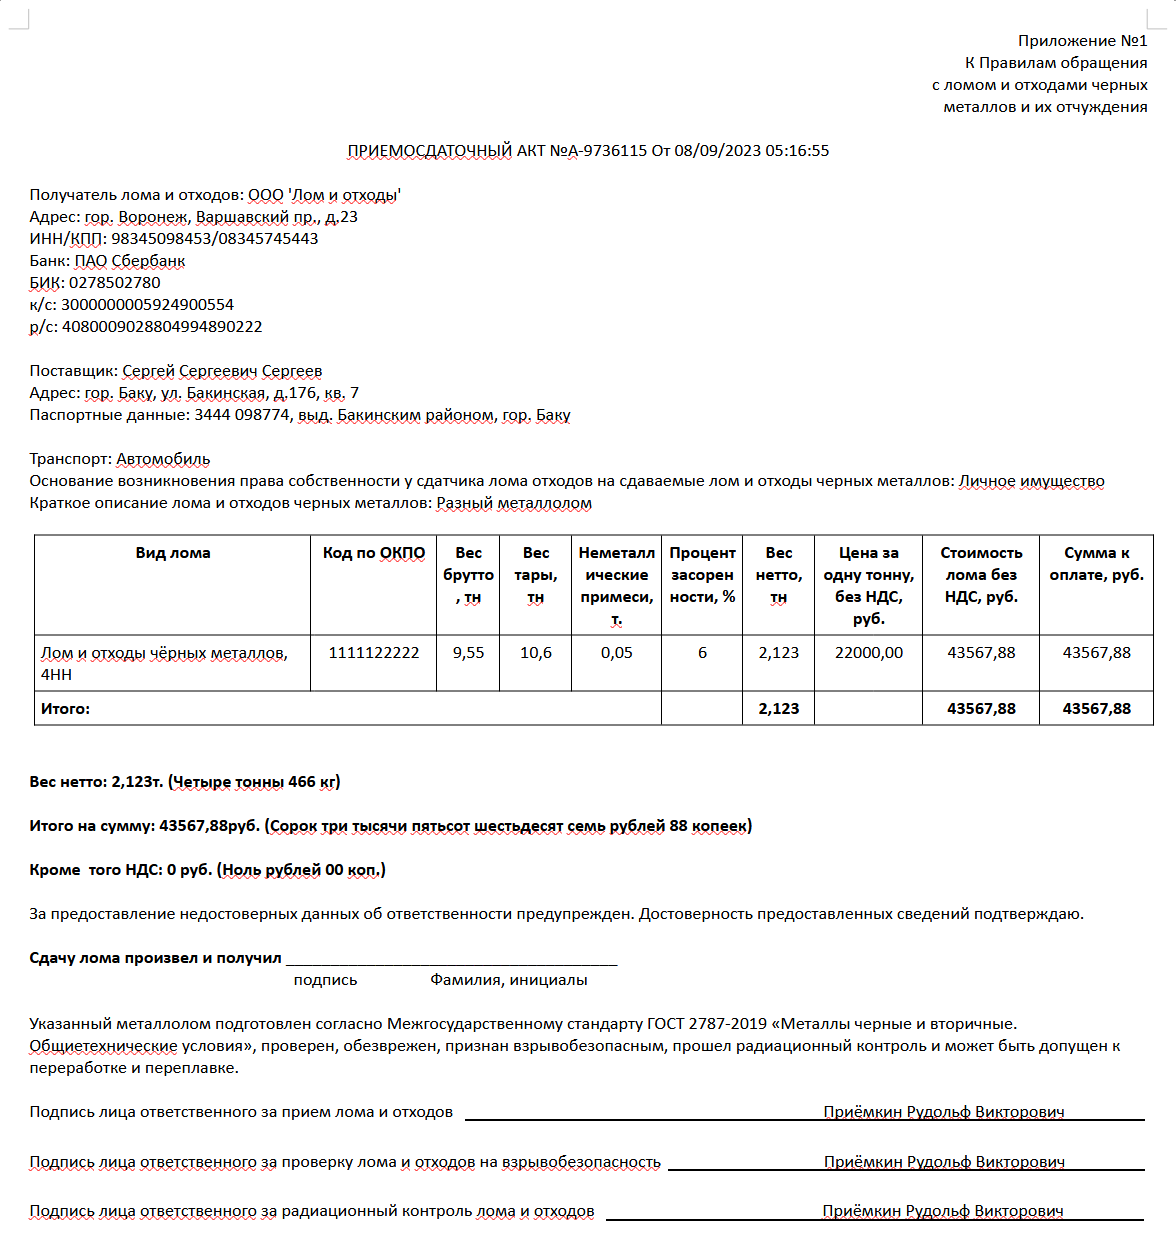
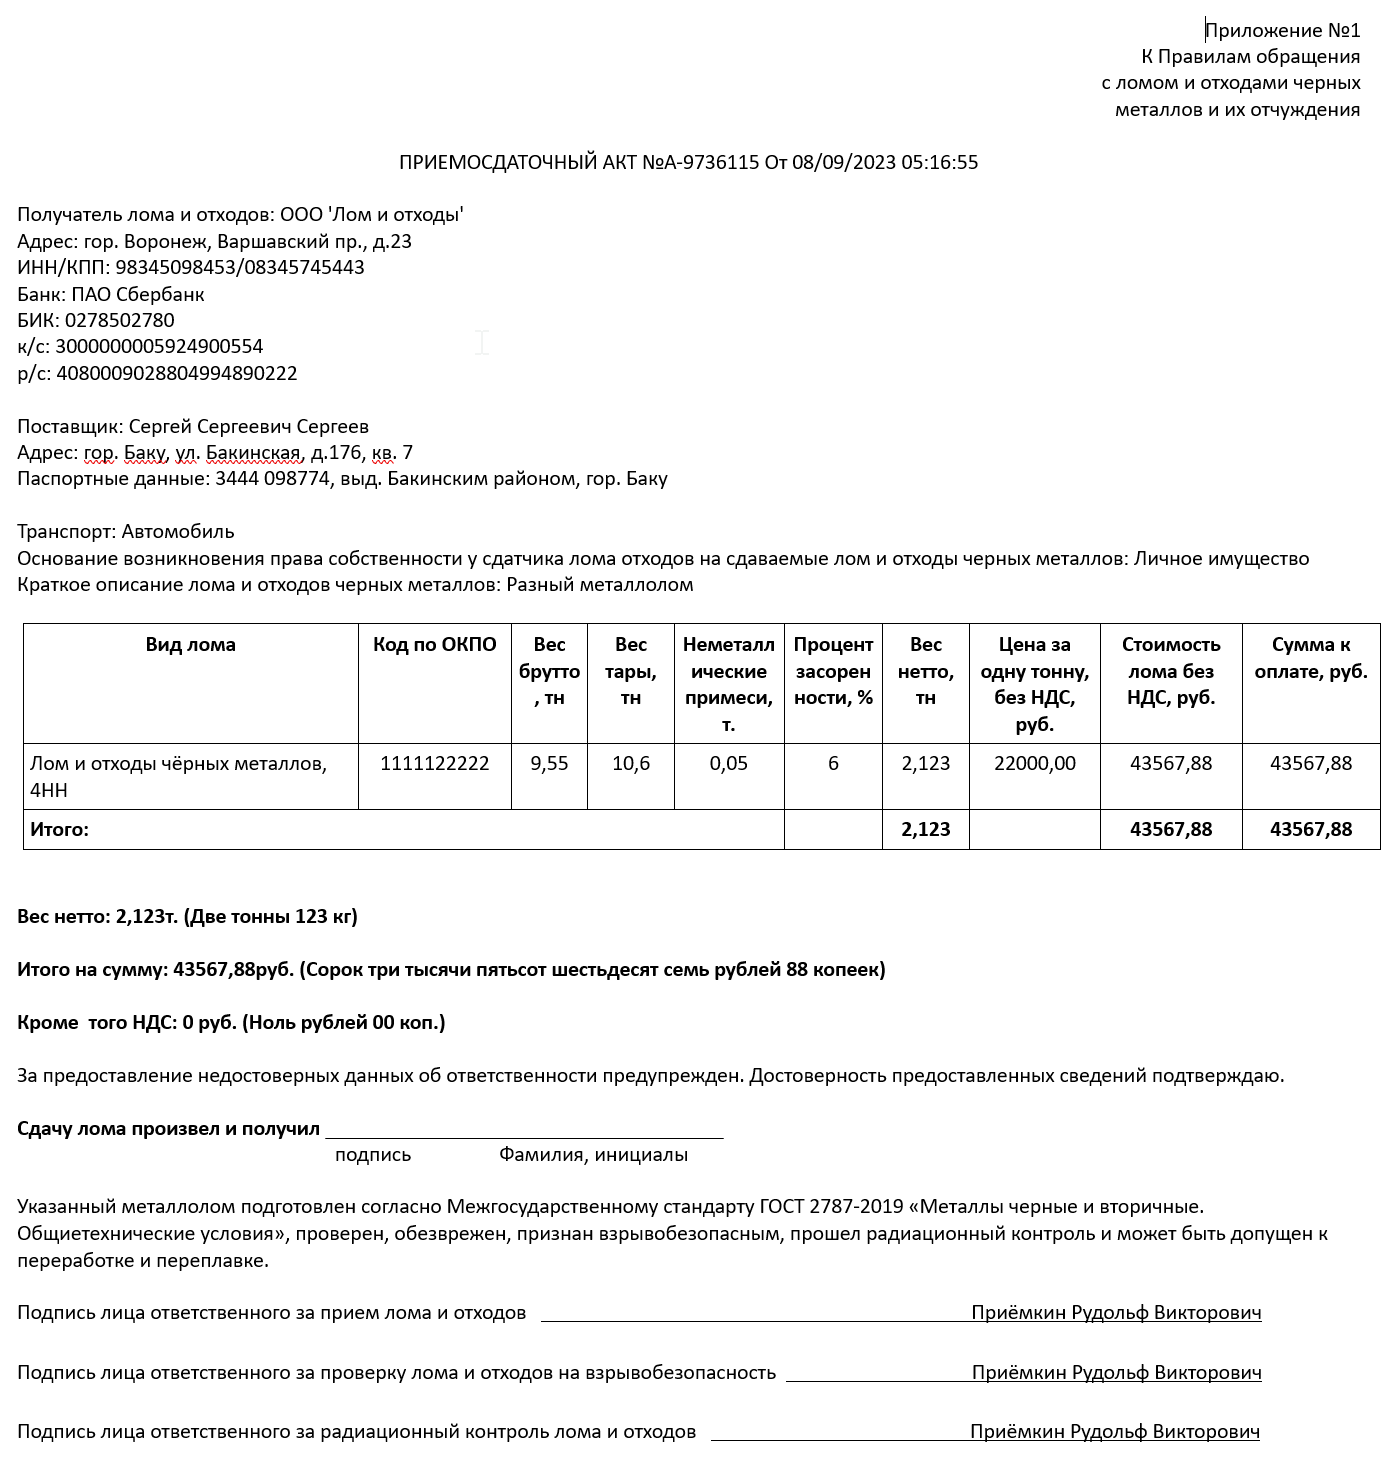
PsaMatcherTest.cs: Add tests for another scanned PSA (id = 2)

Changed region(s): [[0.0, 0.0919, 1.0, 0.5823], [0.0, 0.6129, 0.949, 1.0], [0.7959, 0.0, 0.9796, 0.0919]]

diff --git a/Asumet.Doc.IntegrationTests/Match/PsaMatcherTest.cs b/Asumet.Doc.IntegrationTests/Match/PsaMatcherTest.cs
@@ -5,9 +5,9 @@ namespace Asumet.Doc.IntegrationTests.Match
 
     public class PsaMatcherTest : IntegrationTestBase
     {
-        private static PsaMatcher GetPsaMatcher()
+        private static PsaMatcher GetPsaMatcher(int psaId = 1)
         {
-            var psa = GetPsa();
+            var psa = GetPsa(psaId);
             IMatchPattern<Psa> matchPattern = new PsaMatchPattern(psa);
             var matcher = new PsaMatcher(matchPattern);
             return matcher;
@@ -19,10 +19,14 @@ namespace Asumet.Doc.IntegrationTests.Match
         [InlineData("PSA-01-144dpi.png")]
         [InlineData("PSA-01-300dpi-left05.jpg", 80)]
         [InlineData("PSA-01-300dpi-right03.jpg", 80)]
-        public void TestMatchDocumentImageWithPattern_MatchesProperDocs(string imageFileName, int minScore = 95)
+        [InlineData("PSA-02-144dpi.png", 95, 2)]
+        public void TestMatchDocumentImageWithPattern_MatchesProperDocs(
+            string imageFileName,
+            int minScore = 95,
+            int psaId = 1)
         {
             // Arrange
-            var matcher = GetPsaMatcher();
+            var matcher = GetPsaMatcher(psaId);
             var scanFilePath = GetScanFilePath(imageFileName);
 
             // Act
@@ -33,11 +37,11 @@ namespace Asumet.Doc.IntegrationTests.Match
         }
 
         [Theory]
-        [InlineData("PSA-Empty-144dpi.png", 20)]
-        [InlineData("PSA-02-144dpi.png", 20)]
+        [InlineData("PSA-Empty-144dpi.png")]
+        [InlineData("PSA-02-144dpi.png")]
         [InlineData("PSA-01-300dpi-left.jpg")]
         [InlineData("PSA-01-300dpi-right.jpg")]
-        public void TestMatchDocumentImageWithPattern_DoesntMatchWrongDocs(string imageFileName, int maxScore = 10)
+        public void TestMatchDocumentImageWithPattern_DoesntMatchWrongDocs(string imageFileName, int maxScore = 33)
         {
             // Arrange
             var matcher = GetPsaMatcher();

diff --git a/Asumet.Models/Psa.cs b/Asumet.Models/Psa.cs
@@ -145,7 +145,7 @@
                             {
                                 ShortDescription = "Разный металлолом",
                                 TotalNetto = 2.123m,
-                                TotalNettoInWords = "Четыре тонны 466 кг",
+                                TotalNettoInWords = "Две тонны 123 кг",
                                 Total = 43567.88m,
                                 TotalInWords = "Сорок три тысячи пятьсот шестьдесят семь рублей 88 копеек",
                                 TotalNds = 0,

diff --git a/Asumet.Doc/Ocr/OcrWrapper.cs b/Asumet.Doc/Ocr/OcrWrapper.cs
@@ -32,7 +32,7 @@
             return result;
         }
 
-        /// <summary>
+/*        /// <summary>
         /// Do OSD
         /// </summary>
         /// <param name="imageFilePath">Path to an image file</param>
@@ -43,7 +43,7 @@
             page.DetectBestOrientation(out int orientation, out float confidence);
             Console.WriteLine($"Orientation = {orientation}, Confidence = {confidence}");
         }
-
+*/
         /// <summary>
         /// Parses an image from <paramref name="imageFilePath"/> and returns <see cref="Tesseract.Page"/>
         /// </summary>

diff --git a/Asumet.Doc/Program.cs b/Asumet.Doc/Program.cs
@@ -62,7 +62,7 @@
         private static void TestOsd(string imageFileName)
         {
             var imageFilePath = Path.Combine("./images", imageFileName);
-            OcrWrapper.ImageToOsd(imageFilePath);
+            // OcrWrapper.ImageToOsd(imageFilePath);
         }
 
         private static void GetMatchFile()
